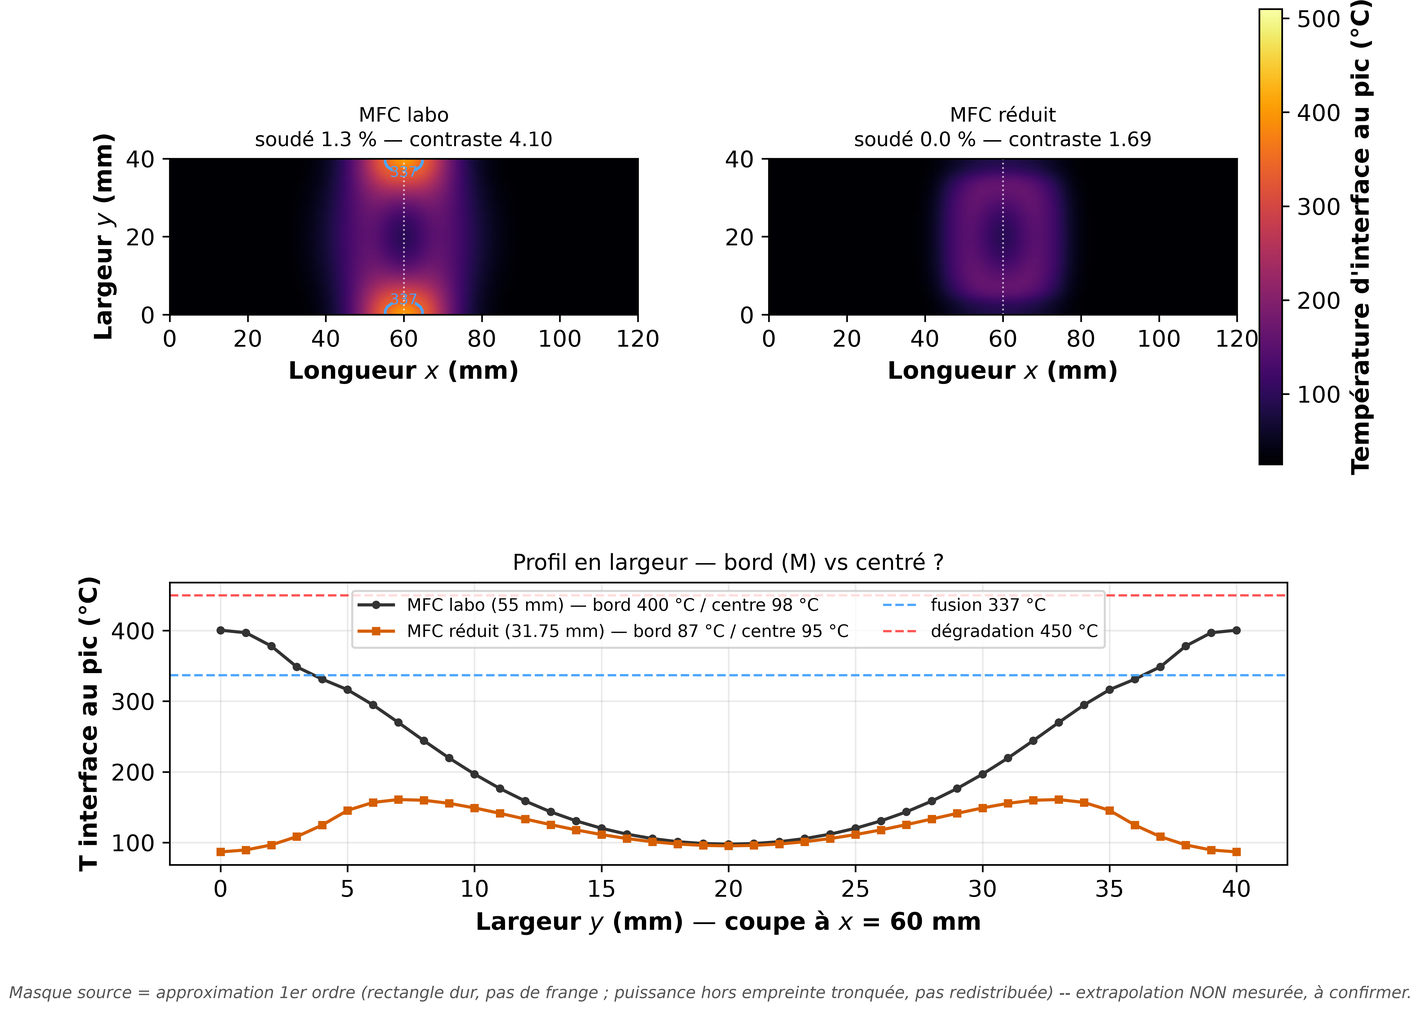
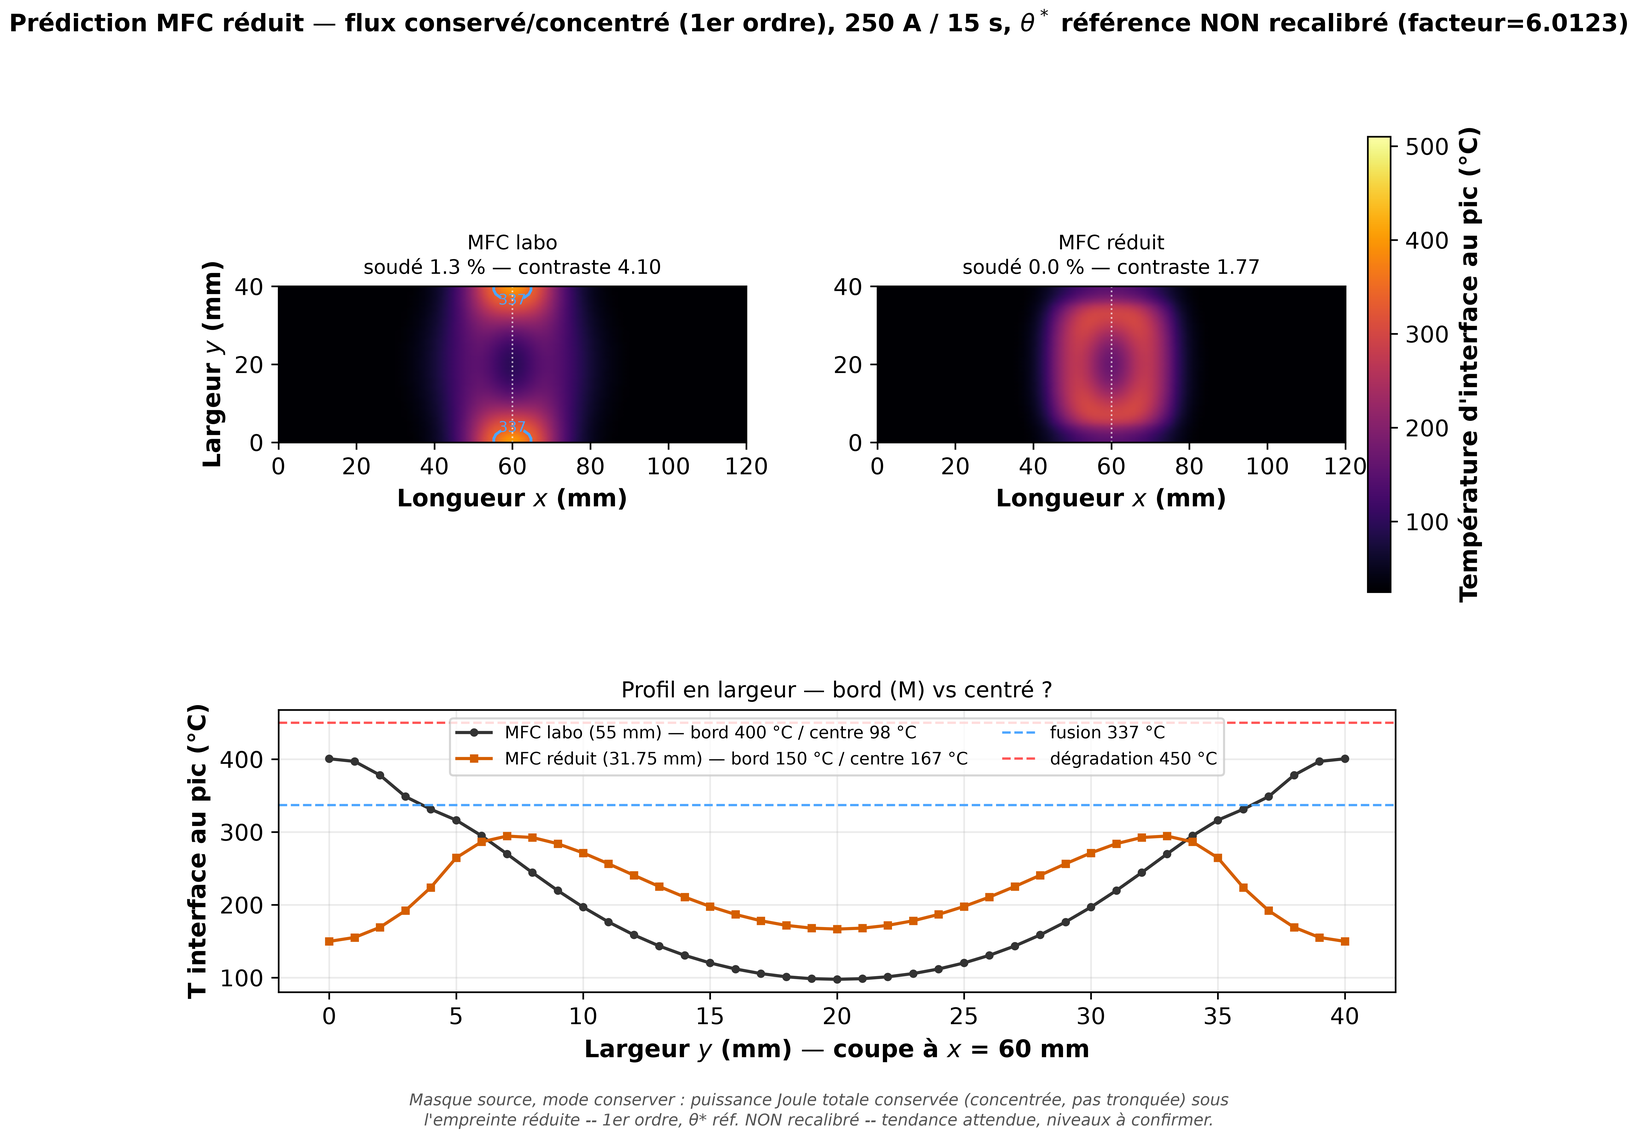
feat(mfc): modele EM conservatif du MFC reduit (flux concentre, pas tronque)
- procede.py : Essai gagne masque_source_mode {tronquer(defaut)|conserver} ;
  en 'conserver' la source masquee est renormalisee (puissance Joule totale
  conservee) -> un MFC plus petit CONCENTRE le flux au lieu de le jeter.
  MFC labo (masque OFF) inchange, theta* reste valide. 123/123 tests verts.
- gen_mfc_reduit.py : figure regeneree en mode conserver (+ fix suptitle
  clippe) ; caveats 1er ordre / theta* non recalibre ; ordonnee C bruts, 'bords'.
- protocole_mfc_reduit.md (+ index README labo) : campagne comparee 55 vs 31,75 mm,
  recalibration theta*, confrontation au jumeau.

Refs issues #55-#63 (campagne comparative MFC).

diff --git a/code/scripts/gen/gen_mfc_reduit.py b/code/scripts/gen/gen_mfc_reduit.py
@@ -13,18 +13,31 @@ géométrie exp7 (spot fixe centré x=60 mm) :
                  (comportement de référence actuel -- non modifié) ;
   - MFC réduit : cfc.longueur=0.03175 m (override EN MÉMOIRE, PAS en config),
                  cfc.largeur=0.0315 m et cfc.hauteur=0.012 m (déjà les valeurs
-                 par défaut), masque_source_mfc=ON.
+                 par défaut), masque_source_mfc=ON, masque_source_mode="conserver".
 
-APPROXIMATION DE 1er ORDRE, À NE PAS SUR-INTERPRÉTER : le masque est un
+MODÈLE (mode "conserver", cf. jumeau.procede.Essai.masque_source_mode) :
+Q_masqué = Q · mask · (∫Q / ∫(Q·mask)) -- la puissance Joule TOTALE déposée par
+spot est CONSERVÉE, pas tronquée : un vrai concentrateur réduit canalise le
+même flux magnétique dans une empreinte plus petite (intensité locale PLUS
+FORTE sous l'empreinte), il ne le supprime pas hors empreinte. C'est le
+correctif du mode historique "tronquer" (encore le défaut de l'API, cf.
+Essai.masque_source_mode) qui, lui, met la source à zéro hors empreinte SANS
+redistribution -- physiquement faux pour ce cas (effondrement artificiel des
+températures). Le cas MFC LABO (masque OFF) reste inchangé bit-à-bit (θ*
+facteur_couplage=6.0123 continue d'être calibré dessus) : la renormalisation
+ne s'applique QUE côté MFC réduit.
+
+APPROXIMATION DE 1er ORDRE, À NE PAS SUR-INTERPRÉTER : le masque reste un
 rectangle DUR (0/1, pas de frange de champ proche à la lisière du bloc MFC) ;
-la puissance hors empreinte est PERDUE (tronquée), pas redistribuée vers
-l'intérieur par conservation -- un vrai MFC réduit concentrerait sans doute
-UNE PARTIE de ce flux vers le centre, ce que ce modèle ne capture pas. Cf.
-docstring jumeau.procede.Essai.masque_source_mfc. Extrapolation à une
-géométrie MFC neuve, non mesurée -- à confirmer expérimentalement (le MFC
-réduit est commandé, cf. config/geometrie.yaml:cfc).
+le champ image-current (µr, cf. champ_coil.py) N'EST PAS re-résolu pour la
+géométrie ferrite réduite -- seule la puissance totale est conservée et
+redéposée telle quelle (répartition spatiale sous l'empreinte non recalculée
+finement) ; θ* de référence n'est PAS recalibré pour ce mode. Extrapolation à
+une géométrie MFC neuve, non mesurée -- tendance attendue, niveaux absolus à
+confirmer expérimentalement (le MFC réduit est commandé, cf.
+config/geometrie.yaml:cfc).
 
-Sortie : docs/modele/figures/fig_mfc_reduit.png
+Sortie : biblio/modele/figures/fig_mfc_reduit.png
 """
 import copy
 import sys
@@ -62,28 +75,49 @@ assert cfg_reduit.geometrie["cfc"]["hauteur"] == 0.012
 assert cfg_labo.geometrie["cfc"]["longueur"] == 0.055   # config de référence NON modifiée
 
 
-def champ_interface(cfg, masque_source_mfc: bool, nx=81, ny=41, nz=15):
+def champ_interface(cfg, masque_source_mfc: bool, masque_source_mode: str = "tronquer",
+                    nx=81, ny=41, nz=15):
     """Carte T(x,y) d'interface au PIC, courant/durée forcés (comme
     fig_empreinte_soudure.py) -- reconstruit _Q_spots/_P_spots_2d à COURANT
-    et DURÉE choisis (le YAML exp7_200A fixe 200 A / 18 s par défaut)."""
+    et DURÉE choisis (le YAML exp7_200A fixe 200 A / 18 s par défaut).
+
+    ``masque_source_mode`` ("tronquer" | "conserver", cf. docstring
+    ``jumeau.procede.Essai``) -- n'a d'effet que si ``masque_source_mfc``.
+    Réplique ici EXACTEMENT la logique d'``Essai.__init__`` (même masque,
+    même renormalisation par rapport de sommes brutes -- grille régulière,
+    dx/dy/dz constants -> rapport de sommes = rapport d'intégrales de
+    volume) car ce script reconstruit Q à COURANT/DURÉE propres, en dehors
+    du constructeur d'Essai."""
     e = Essai(cfg, R / "code" / "config" / "essais" / "exp7_200A.yaml", nx=nx, ny=ny, nz=nz,
               facteur_couplage=FACTEUR, decalage_x=0.0, racine=R,
-              masque_source_mfc=masque_source_mfc)
+              masque_source_mfc=masque_source_mfc, masque_source_mode=masque_source_mode)
     e.spec["duree_chauffe"] = DUREE
     e.spec["duree_totale"] = DUREE
     e.spots[0]["t_fin"] = DUREE
     Q = [source_spot(e.grille, cfg, e.couches, COURANT, float(s["centre_x"]),
                      facteur_couplage=FACTEUR, decalage_x=0.0) for s in e.spots]
+    bilan = None
     if masque_source_mfc:
         # même logique que Essai.__init__ (masque_source_mfc) : réutiliser EXACTEMENT
         # le masque déjà construit par Essai (posé sur le spot, cfg de cette config)
+        Q_non_masque = Q
         Q = [q * m[:, :, None] for q, m in zip(Q, e._masques)]
+        if masque_source_mode == "conserver":
+            totaux_non_masques = [float(q.sum()) for q in Q_non_masque]
+            totaux_masques = [float(q.sum()) for q in Q]
+            Q = [
+                q * (t_nm / t_m if t_m > 0.0 else 1.0)
+                for q, t_nm, t_m in zip(Q, totaux_non_masques, totaux_masques)
+            ]
+            totaux_conserves = [float(q.sum()) for q in Q]
+            bilan = dict(non_masque=sum(totaux_non_masques), tronque=sum(totaux_masques),
+                        conserve=sum(totaux_conserves))
     e._Q_spots = Q
     e._P_spots_2d = [q.sum(axis=2) * e.grille.dz for q in Q]
     sv, sol = e.simuler(modele="2D")
     champs = np.array([sv.resultat_2d(sol, i) for i in range(sol.t.size)])  # (nt, nx, ny)
     Tmax = champs.max(axis=0)
-    return e.grille, Tmax
+    return e.grille, Tmax, bilan
 
 
 def diagnostics(nom, g, Tmax):
@@ -112,11 +146,18 @@ def diagnostics(nom, g, Tmax):
 print(f"Réglage : I={COURANT:.0f} A, durée={DUREE:.0f} s, facteur_couplage={FACTEUR} (référence, NON recalibré)")
 print()
 
-g_labo, T_labo = champ_interface(cfg_labo, masque_source_mfc=False)
+g_labo, T_labo, _ = champ_interface(cfg_labo, masque_source_mfc=False)
 d_labo = diagnostics("MFC labo (55 mm, masque source OFF -- reference)", g_labo, T_labo)
 print()
-g_red, T_red = champ_interface(cfg_reduit, masque_source_mfc=True)
-d_red = diagnostics("MFC réduit (31.75 mm, masque source ON)", g_red, T_red)
+g_red, T_red, bilan_red = champ_interface(cfg_reduit, masque_source_mfc=True,
+                                          masque_source_mode="conserver")
+d_red = diagnostics("MFC réduit (31.75 mm, masque source ON, mode conserver)", g_red, T_red)
+print(f"  bilan de puissance (flux conservé/concentré, 1er ordre) :")
+print(f"    integrale Q non masquee            : {bilan_red['non_masque']:.4e} (u. de sum brute)")
+print(f"    integrale Q tronquee (avant renorm): {bilan_red['tronque']:.4e}"
+     f"  ({100*bilan_red['tronque']/bilan_red['non_masque']:.1f} % du non-masque)")
+print(f"    integrale Q conservee (apres renorm): {bilan_red['conserve']:.4e}"
+     f"  ({100*bilan_red['conserve']/bilan_red['non_masque']:.2f} % du non-masque -- doit etre ~100 %)")
 print()
 
 point_chaud_deplace = d_red["y_pic_mm"] != d_labo["y_pic_mm"]
@@ -163,12 +204,12 @@ ax_prof.set_title("Profil en largeur — bord (M) vs centré ?", fontsize=10.5)
 ax_prof.legend(fontsize=8.2, loc="upper center", ncol=2)
 ax_prof.grid(alpha=0.25)
 
-fig.suptitle(f"Prédiction MFC réduit — masque de source (flag ON), {COURANT:.0f} A / {DUREE:.0f} s, "
-             f"$\\theta^*$ référence (facteur={FACTEUR}, non recalibré)",
+fig.suptitle(f"Prédiction MFC réduit — flux conservé/concentré (1er ordre), {COURANT:.0f} A / {DUREE:.0f} s, "
+             f"$\\theta^*$ référence NON recalibré (facteur={FACTEUR})",
              fontsize=11.5, fontweight="bold", y=0.995)
 fig.text(0.5, -0.01,
-        "Masque source = approximation 1er ordre (rectangle dur, pas de frange ; puissance hors empreinte "
-        "tronquée, pas redistribuée) -- extrapolation NON mesurée, à confirmer.",
+        "Masque source, mode conserver : puissance Joule totale conservée (concentrée, pas tronquée) sous\n"
+        "l'empreinte réduite -- 1er ordre, θ* réf. NON recalibré -- tendance attendue, niveaux à confirmer.",
         ha="center", fontsize=7.8, style="italic", color="#555555")
-savefig(fig, OUT, bbox_extra_artists=[fig.texts[-1]])
+savefig(fig, OUT, bbox_extra_artists=[fig.texts[-1], fig._suptitle])
 print("\nsaved", OUT)

diff --git a/code/src/jumeau/procede.py b/code/src/jumeau/procede.py
@@ -60,7 +60,8 @@ class Essai:
                  thermostat_capteurs: bool = False,
                  source_sigma_mm: float = 0.0,
                  lambda_bord_mm: float = 0.0,
-                 masque_source_mfc: bool = False):
+                 masque_source_mfc: bool = False,
+                 masque_source_mode: str = "tronquer"):
         self.cfg = cfg
         self.spec = charger_yaml(chemin_essai)
         self.racine = Path(racine) if racine else Path(chemin_essai).resolve().parents[3]
@@ -162,14 +163,49 @@ class Essai:
         # bord/centre ~inchangé, 5.4->5.5), ce qui est physiquement suspect.
         # APPROXIMATION DE 1er ORDRE (à documenter comme telle) : un masque
         # DUR (0/1, pas de frange/diffusion du champ proche à la lisière du
-        # bloc MFC) ; le courant hors empreinte n'est pas redistribué à
-        # l'intérieur (la puissance totale déposée DIMINUE quand on masque,
-        # elle n'est pas concentrée par conservation -- cf. docstring module
-        # source_joule.py pour la distinction avec le blindage/couplage
-        # inter-couches). NE PAS activer sans recalibrer facteur_couplage (la
-        # puissance totale change). Défaut False -> non-régression bit-à-bit
-        # (cf. tests test_masque_source_mfc_off_est_identite).
+        # bloc MFC). Défaut False -> non-régression bit-à-bit (cf. tests
+        # test_masque_source_mfc_off_est_identite). NE PAS activer sans
+        # recalibrer facteur_couplage (la puissance totale change, cf.
+        # masque_source_mode ci-dessous).
         self.masque_source_mfc = bool(masque_source_mfc)
+        # masque_source_mode ("tronquer" | "conserver", n'a d'effet QUE si
+        # masque_source_mfc=True) : deux modèles EM 1er ordre distincts pour
+        # ce qui arrive au flux hors empreinte MFC.
+        #   - "tronquer" (DÉFAUT, comportement historique < 2026-08-22) : le
+        #     courant hors empreinte n'est pas redistribué à l'intérieur --
+        #     la puissance totale déposée DIMINUE quand on masque, elle n'est
+        #     PAS concentrée par conservation. Physiquement faux pour un vrai
+        #     MFC (un concentrateur réduit canalise le flux dans une
+        #     empreinte plus petite, il ne le supprime pas), mais conservé
+        #     tel quel car c'est SUR ce comportement que le MFC labo (masque
+        #     off, cf. plus bas) et θ* (facteur_couplage=6.0123) restent
+        #     calibrés -- cf. docstring module source_joule.py pour la
+        #     distinction avec le blindage/couplage inter-couches.
+        #   - "conserver" (NOUVEAU, cf. tâche masque MFC réduit 2026-08-22) :
+        #     renormalise Q_masqué = Q·mask·(∫Q / ∫(Q·mask)) -- intégrale de
+        #     volume sur la plaque entière (grille RÉGULIÈRE par axe, dx/dy/dz
+        #     constants -- cf. Grille3D.__post_init__ -- donc le rapport de
+        #     sommes ndarray brutes est EXACTEMENT le rapport des intégrales
+        #     de volume, le dV constant se simplifiant). Modèle 1er ordre :
+        #     conserve la puissance Joule TOTALE déposée par spot (couplage
+        #     bobine<->plaque inchangé), la reconcentre entièrement sous
+        #     l'empreinte réduite -- hypothèse cohérente avec un concentrateur
+        #     qui canalise (ne dissipe pas) le flux magnétique. LIMITES : pas
+        #     de re-résolution de Bz pour la géométrie ferrite réduite (le
+        #     champ image-current, cf. champ_coil.py, reste celui du MFC
+        #     labo), pas de frange de champ proche à la lisière du bloc
+        #     réduit (masque toujours dur 0/1), la répartition SPATIALE
+        #     post-renormalisation sous l'empreinte reste celle, non modifiée,
+        #     du champ non masqué (pas de re-calcul de la concentration fine
+        #     du flux par le nouveau bloc MFC). NE PAS activer sans recalibrer
+        #     facteur_couplage pour ce mode si on veut confronter aux niveaux
+        #     absolus -- utilisé ici en θ* de référence (NON recalibré,
+        #     tendance seulement, cf. gen_mfc_reduit.py).
+        if masque_source_mode not in ("tronquer", "conserver"):
+            raise ValueError(
+                f"masque_source_mode doit être 'tronquer' ou 'conserver', reçu {masque_source_mode!r}"
+            )
+        self.masque_source_mode = str(masque_source_mode)
 
         courant = float(self.spec["courant"])
         self.spots = self.spec["spots"]
@@ -191,9 +227,19 @@ class Essai:
             # pour la source, PAS un nouveau masque indépendant -- garantit
             # que "où la céramique appuie" et "où le flux est concentré"
             # restent le même rectangle géométrique par construction.
-            self._Q_spots = [
+            Q_masques = [
                 Q * m[:, :, None] for Q, m in zip(self._Q_spots, self._masques)
             ]
+            if self.masque_source_mode == "conserver":
+                Q_conserves = []
+                for Q, Qm in zip(self._Q_spots, Q_masques):
+                    total = float(Q.sum())
+                    total_m = float(Qm.sum())
+                    facteur_reconcentration = total / total_m if total_m > 0.0 else 1.0
+                    Q_conserves.append(Qm * facteur_reconcentration)
+                self._Q_spots = Q_conserves
+            else:
+                self._Q_spots = Q_masques
         self._Q_nul = np.zeros_like(self._Q_spots[0])
         # nœuds de contrôle du thermostat (asservissement de source_fn à T) —
         # un jeu de nœuds PAR SPOT : toute la colonne en y à l'abscisse du

diff --git a/biblio/labo/protocole_mfc_reduit.md b/biblio/labo/protocole_mfc_reduit.md
@@ -1,0 +1,132 @@
+# Fiche protocole — MFC réduit (31,75 mm) : chauffe instrumentée en largeur & confrontation au jumeau
+
+**Projet** : jumeau numérique du soudage par induction CF/PEKK · **Date de rédaction** : 2026-08-22
+**Réalise l'objectif de** : documenter le passage au **MFC réduit recommandé par COMPAAM**
+(Romain Martin, mai 2025 : un concentrateur ~½ pouce plus étroit que la largeur de soudure →
+limite les effets de bord → chauffe homogène → réduit la déconsolidation, cite `Romain 2024`).
+Fournit aussi la mesure qui **recalibre θ\*** et **valide le calcul EM conservatif** du MFC réduit.
+
+---
+
+## 1. Objectif et ce que ça résout
+
+Deux inconnues, une seule campagne :
+
+1. **Le MFC réduit chauffe-t-il plus uniformément sur la largeur ?** Le MFC labo (55 mm) **déborde
+   des deux bords** de l'échantillon (largeur 40 mm) → chauffe concentrée aux bords (profil en
+   « M ») → **squeeze-out latéral** observé sur les séries B. Le MFC réduit (31,75 mm) est
+   **contenu dans la largeur** → on attend un dépôt **central**, des bords plus froids, un profil
+   **aplati/centré**, et moins de squeeze-out. Cette campagne le **mesure** au lieu de le supposer.
+2. **Le jumeau prédit-il correctement l'effet du MFC réduit ?** La prédiction actuelle est une
+   extrapolation EM **1er ordre** (masque de source, flux conservé/concentré) **non recalibrée**
+   pour cette géométrie : les niveaux absolus ne sont pas fiables. La mesure **recale θ\***
+   (`facteur_couplage`) et confirme (ou corrige) le modèle.
+
+**Enjeu procédé** : si le MFC réduit soude le **centre** de la largeur (aujourd'hui le point le
+plus froid, non soudé au grand MFC), on obtient une **soudure pleine largeur plus homogène** avec
+**moins d'expulsion de matrice** aux bords — c'est l'objet de la recommandation COMPAAM.
+
+---
+
+## 2. Principe : comparer deux MFC, tout le reste identique
+
+On répète la **campagne en largeur (Exp 7)** — ligne de thermocouples **selon la largeur** (axe y),
+à l'interface, spot centré — pour **deux concentrateurs**, à **courant et durée identiques** :
+
+| Config | MFC | Empreinte (y × x) | Attendu sur la largeur |
+|---|---|---|---|
+| **A — référence** | labo **55 mm** | 55 × 31,5 mm (déborde des bords) | profil en **M** (bords chauds, centre froid) |
+| **B — réduit** | **31,75 mm** | 31,75 × 31,5 mm (dans la largeur) | dépôt **central**, bords froids, profil aplati |
+
+Le reste est **strictement inchangé** : empilement, film, céramique d'espacement (couplage 2 mm),
+bobine hairpin, positions TC, courant, durée, séquence de coupure. Seul le **bloc MFC** change.
+> La config A peut réutiliser les données **Exp 7 existantes** si le montage est identique ; sinon
+> refaire une passe A le même jour pour une comparaison à conditions rigoureusement égales.
+
+---
+
+## 3. Montage (rappel) et instrumentation
+
+- **Procédé** : soudage induction **semi-statique** (bobine fixe, table qui translate ; ici **un
+  seul spot fixe**, centré à `x = 60 mm`).
+- **Empilement** : laminé sup [45/-45/0/90]₃ₛ 3,36 mm + **pli twill suscepteur** à l'interface +
+  film PEKK 0,004 po (0,1 mm) + laminé inf 3,36 mm. Plaque **120 × 40 mm**.
+- **Concentrateur** : Fluxtrol **Ferrotron 559H** (µr ≈ 16). Config A = 55 mm ; config B = **31,75 mm**
+  (grand côté **le long de la largeur y**), collé à la bobine (pâte thermique — cf. liste d'achats).
+- **Couplage** : céramique d'espacement 2 mm (électromagnétiquement transparente), pression via
+  piston pneumatique. **Noter la pression** (air ↔ interface, cf. classeur de calcul).
+- **Thermocouples** : **5 TC type K à l'interface**, alignés **selon la largeur** à `x = 60 mm` :
+  `y = 0 / 10 / 20 / 30 / 40 mm` (bord → centre → bord). Vérifier chaque voie (une voie débranchée
+  lit ~2295 °C — à exclure). Acquisition LabVIEW, décimale point.
+
+---
+
+## 4. Plan d'essais
+
+Balayer la **fenêtre de soudage** pour situer le seuil de fusion en fonction du courant :
+
+| Passe | Courant | Durée | MFC | But |
+|---|---|---|---|---|
+| 1 | 200 A | fenêtre (≈ 18 s) | 55 mm (A) | référence M (ou réutiliser Exp 7 200 A) |
+| 2 | 200 A | idem passe 1 | **31,75 mm (B)** | profil réduit à courant modéré |
+| 3 | 250 A | fenêtre (≈ 15 s) | 55 mm (A) | référence M pleine chauffe |
+| 4 | 250 A | idem passe 3 | **31,75 mm (B)** | **cas soudage** : le centre atteint-il Tf ? |
+
+- **Durée** : caler sur la fenêtre de soudage (cf. `fig_loi_reglage` / `fig_fenetre_soudage`) pour
+  viser l'interface juste au-dessus de **Tf ≈ 337 °C**, sous la **dégradation ≈ 450 °C**.
+- **Répétabilité** : au moins **2 répétitions** de la passe 4 (le cas décisif).
+- **Refroidissement** : laisser retomber < 100 °C entre passes (acquisition continue possible).
+
+---
+
+## 5. Grandeurs à relever (par passe)
+
+1. **Profil en largeur** `T(y)` au pic (5 TC) → **contraste bord/centre**, position (y) du maximum.
+2. **Pic d'interface** (max des 5 TC) et **T au centre** (`y = 20 mm`) — en **°C bruts**.
+3. **Fraction soudée** en largeur : quels `y` dépassent **Tf = 337 °C** (largeur effectivement soudée).
+4. **Squeeze-out latéral** : inspection visuelle des bords + **photos calibrées** (règle) après
+   refroidissement ; noter la présence/ampleur du bourrelet aux **emplacements du spot** et la
+   distorsion du twill (cf. `top.CR3`, séries B). Comparer A (55 mm) vs B (31,75 mm).
+5. **Empreinte** thermique (le cas échéant, caméra IR — cf. issue #15) et **pression** appliquée.
+
+---
+
+## 6. Exploitation & confrontation au jumeau
+
+1. **Comparaison directe A vs B** : le MFC réduit **aplatit-il** le profil (contraste ↓) et
+   **déplace-t-il le point chaud** du bord vers le centre ? Le **centre atteint-il Tf** (passe 4) ?
+   Le **squeeze-out latéral diminue-t-il** ?
+2. **Recalibration θ\*** : ajuster `facteur_couplage` sur la **passe B** (mesure ↔ modèle, config
+   `cfc.longueur = 0.03175`) — l'actuel θ\* = 6,0123 est calibré sur le MFC 55 mm.
+   Commandes de référence :
+   ```
+   python code/scripts/gen/gen_mfc_reduit.py        # prédiction EM conservative (à comparer)
+   python code/scripts/calibrer.py <essai_MFC_reduit>   # recale facteur_couplage sur la mesure B
+   python code/scripts/valider.py <essai_MFC_reduit>    # confronte profil mesuré ↔ simulé
+   ```
+3. **Validation du calcul EM conservatif** : le modèle « flux conservé/concentré » (1er ordre)
+   prédit-il le bon **niveau** et la bonne **forme** une fois θ\* recalé ? Si l'écart persiste, il
+   faudra la **re-résolution complète de Bz** pour la géométrie de ferrite réduite (frange de champ
+   proche, concentration réelle) — cf. `gen_mfc_reduit.py` (docstring) et `em/source_joule.py`.
+4. **Créer l'essai** dans `code/config/essais/` (cf. skill `ajouter-essai`) : géométrie MFC réduit,
+   5 TC à l'interface `y = 0/10/20/30/40`, spot `x = 60 mm`, courant/durée de la passe.
+
+---
+
+## 7. Critères de succès
+
+- **Procédé** : le MFC réduit **soude le centre** (T_centre ≥ Tf à 250 A) avec un **contraste
+  bord/centre nettement réduit** vs 55 mm, et **moins de squeeze-out latéral** (photos).
+- **Modèle** : après recalibration θ\*, le jumeau reproduit le **profil B** (forme + niveau) à la
+  barre habituelle ; sinon, diagnostic clair pointant la re-résolution EM.
+
+---
+
+## 8. Sécurité & notes
+
+- PEKK au-dessus de **Tf ≈ 337 °C** : ventilation, gants, ne pas dépasser ~**450 °C** (dégradation).
+- Vérifier la **pâte thermique** MFC ↔ bobine (contact thermique) avant la série.
+- **Une seule variable à la fois** : ne changer QUE le MFC entre A et B (même courant, durée,
+  céramique, pression, positions TC). Toute autre modification invalide la comparaison.
+- Prochaine étape (hors périmètre) : répéter ce protocole pour le **MFC suivant** (spécifications à
+  définir), même trame.

diff --git a/biblio/labo/README.md b/biblio/labo/README.md
@@ -19,6 +19,7 @@ Chaque campagne récente a son propre `README.md` détaillé dans son dossier `d
 ## Documents labo
 
 - [`protocole_exp_dissipation_longitudinale.md`](protocole_exp_dissipation_longitudinale.md) — fiche protocole exp 9.
+- [`protocole_mfc_reduit.md`](protocole_mfc_reduit.md) — fiche protocole MFC réduit (31,75 mm) : chauffe instrumentée en largeur, comparaison au MFC 55 mm, recalibration θ\* (COMPAAM).
 - [`mesures_a_realiser.md`](mesures_a_realiser.md) — mesures encore **à réaliser** (feuille de route terrain).
 - [`releves_resolus.md`](releves_resolus.md) — relevés/questions de terrain déjà **tranchés** (archive).
 
